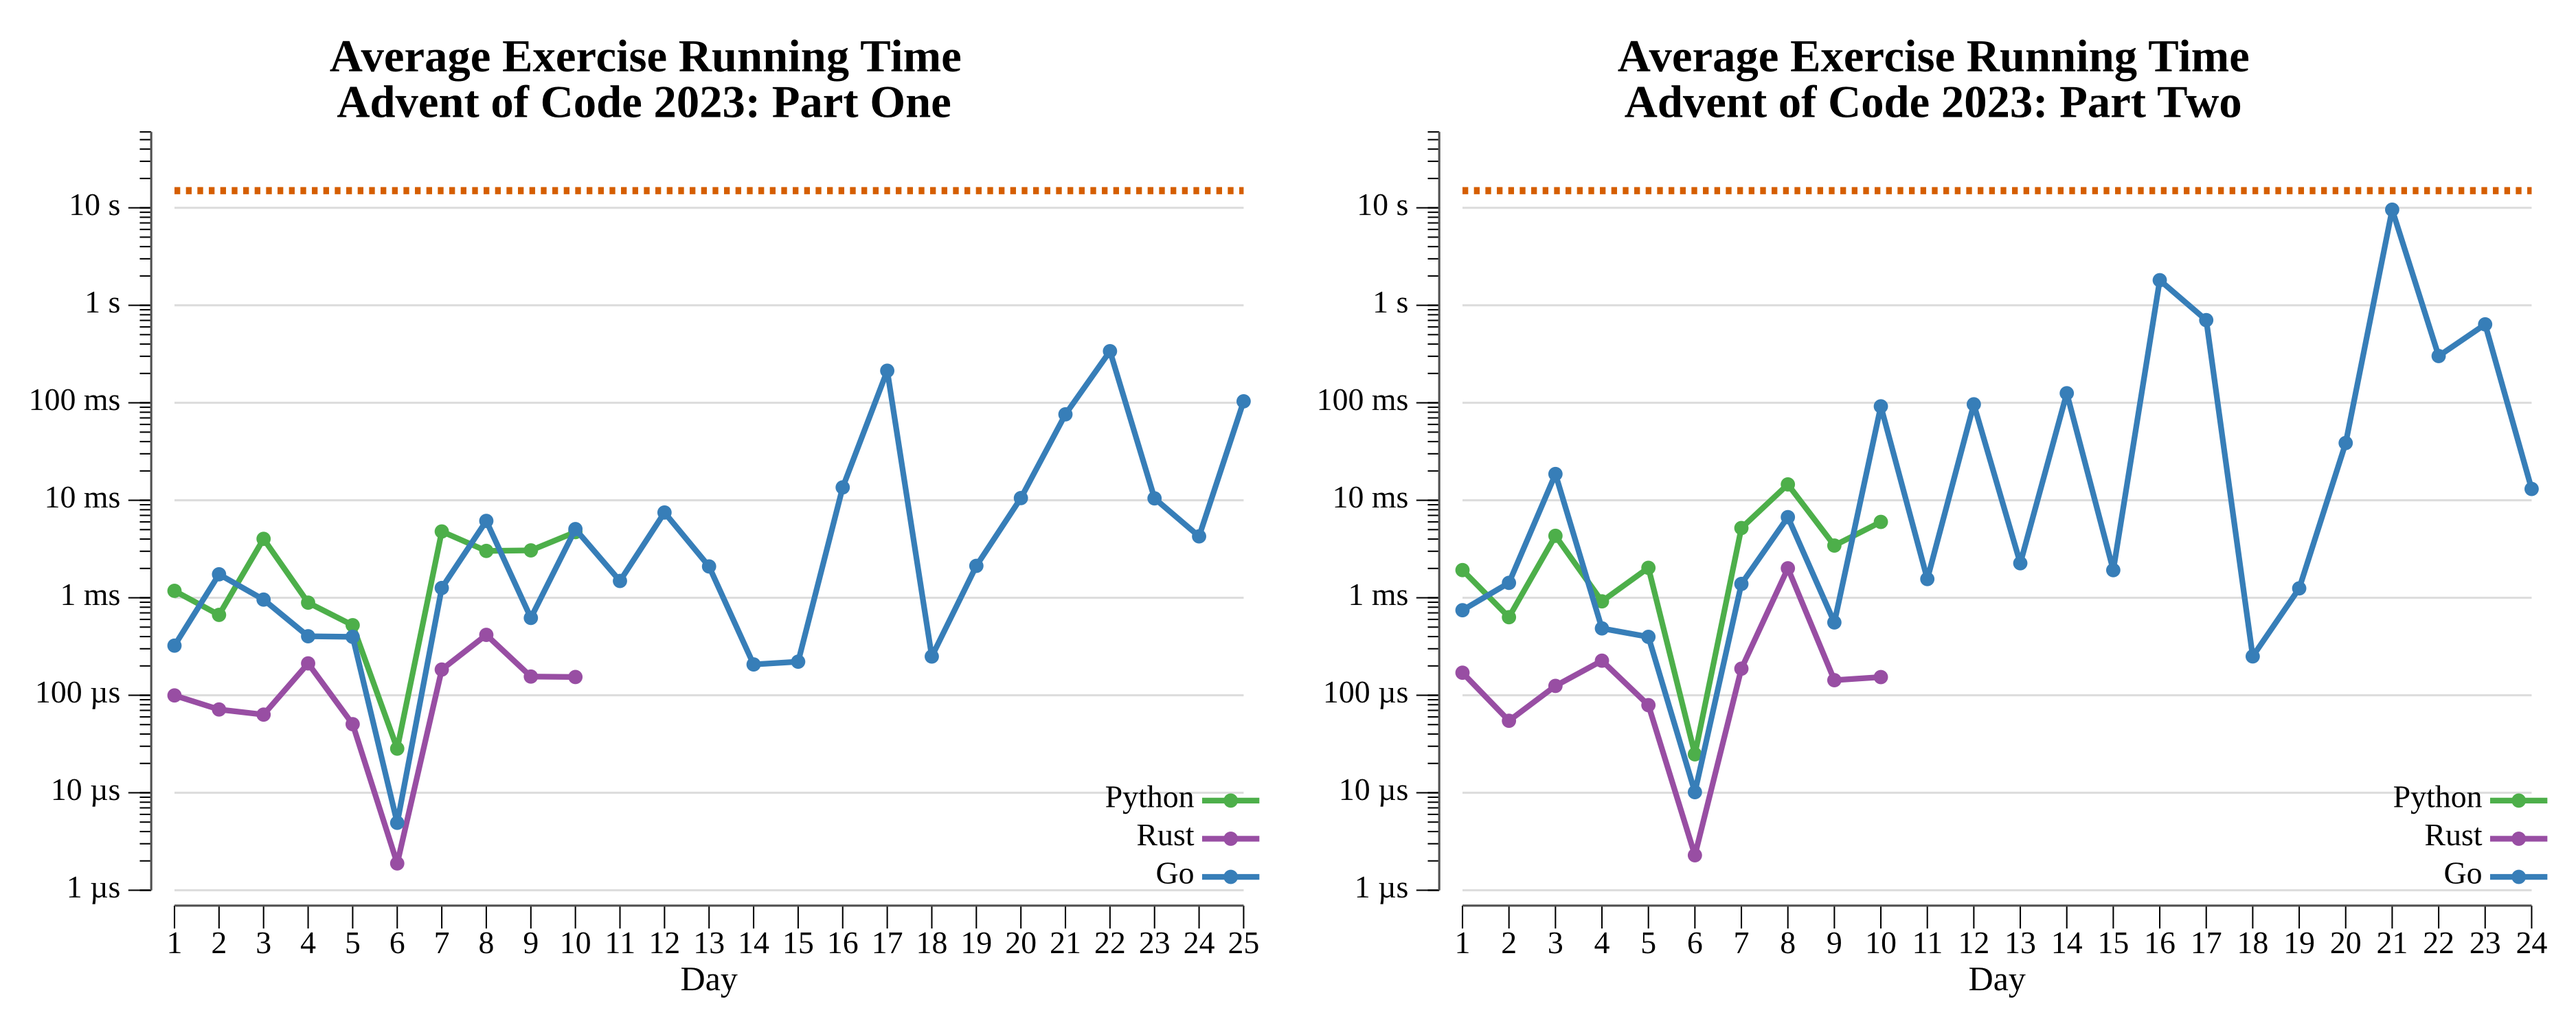
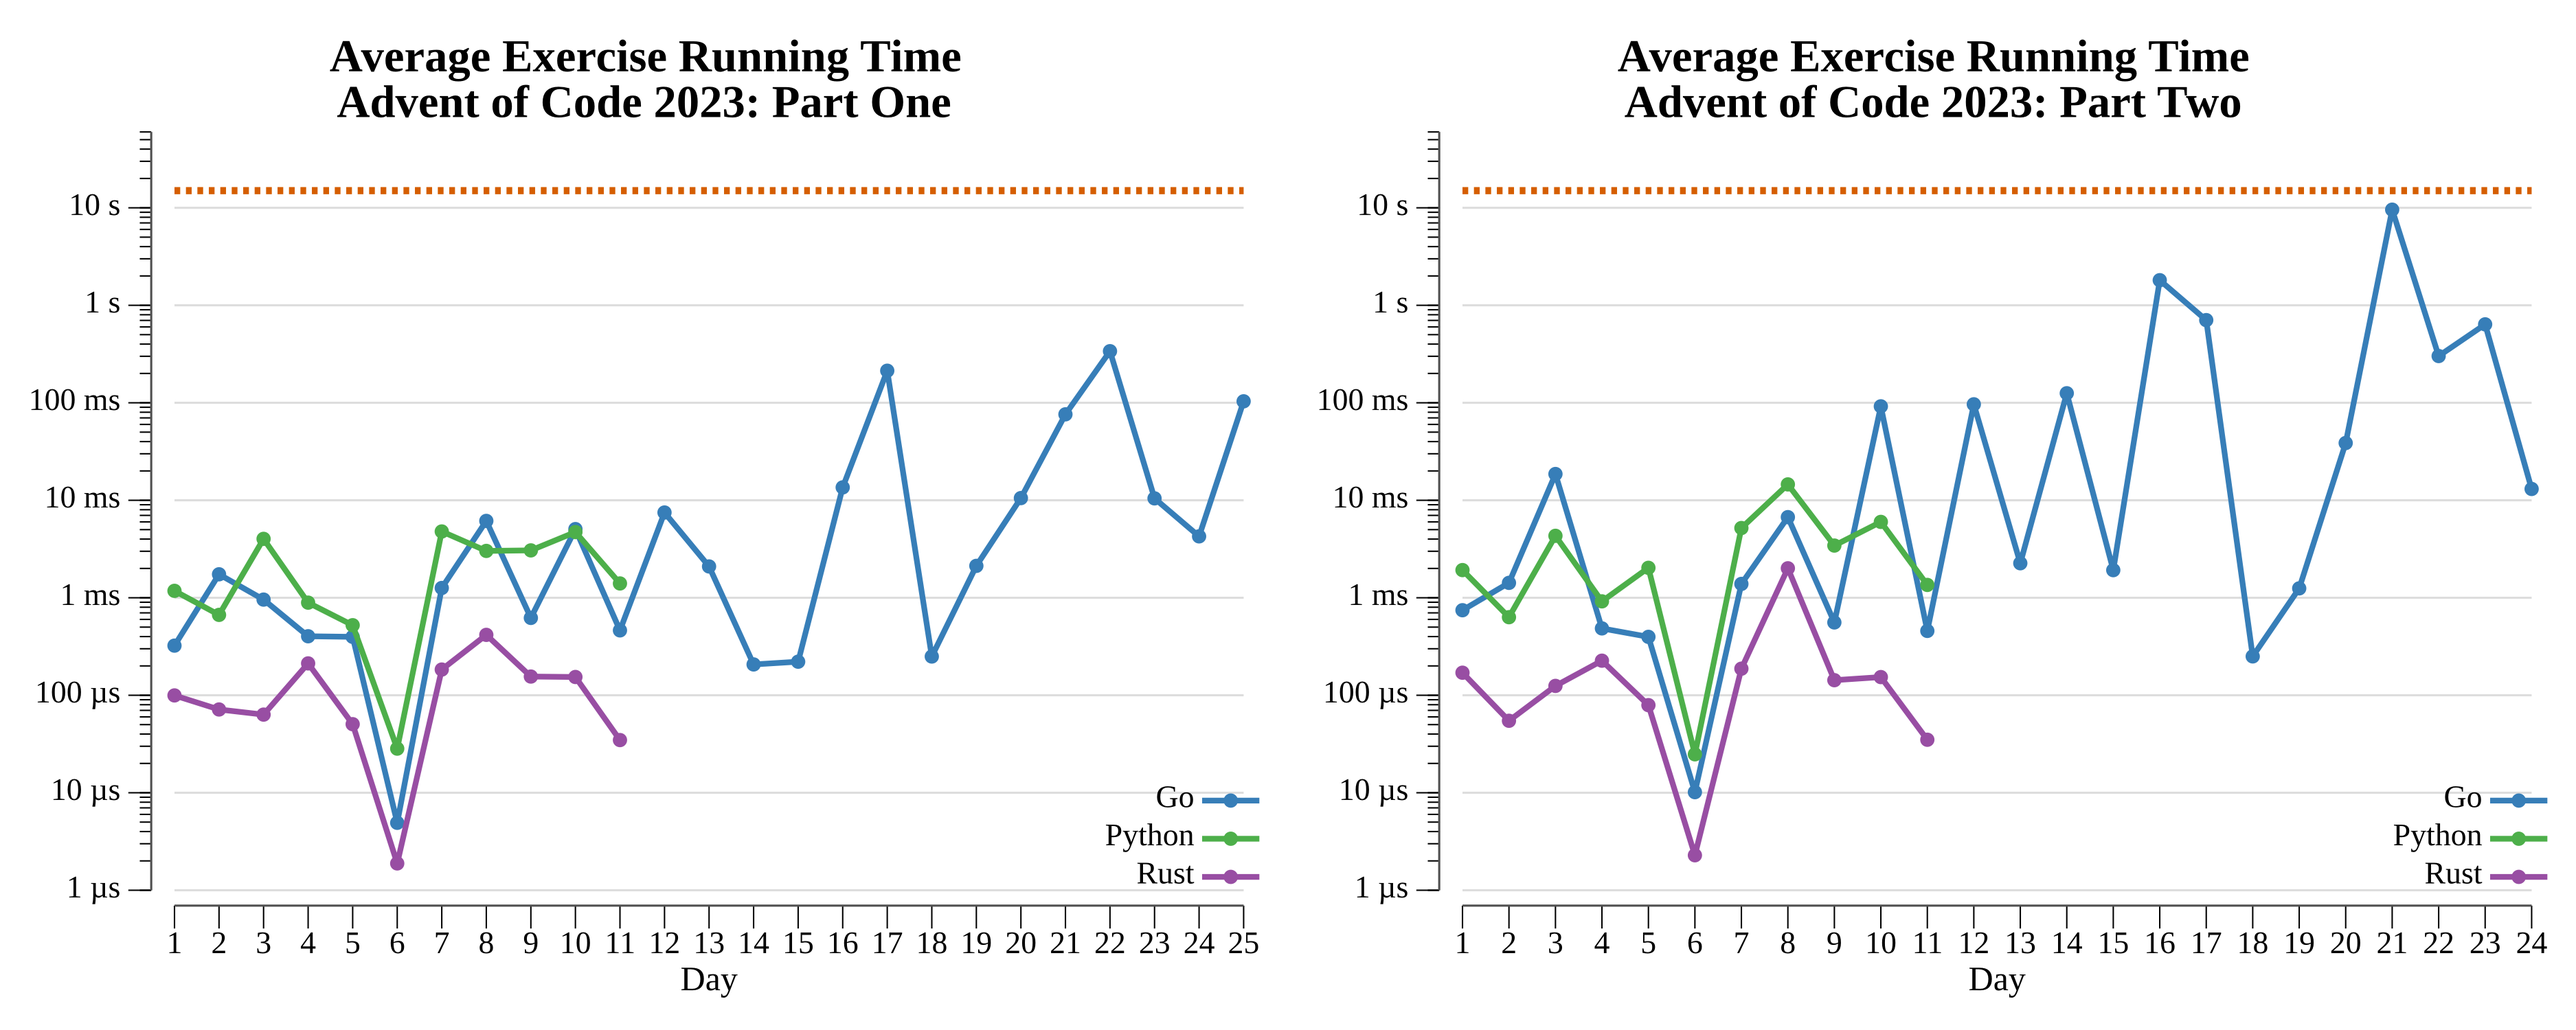
add rust/py to 2023 day 11

diff --git a/exercises/2023/11-cosmicExpansion/rs/src/solution.rs b/exercises/2023/11-cosmicExpansion/rs/src/solution.rs
@@ -1,0 +1,66 @@
+// Solution for Advent of Code 2023 day 11.
+//
+// Empty rows and columns each expand to `factor` tracks. The total pairwise
+// Manhattan distance separates into independent row and column sums, and along
+// one axis the sorted-order identity sum_{i<j}(x_j - x_i) = sum_i x_i*(2i-n+1)
+// turns each axis into a single linear pass — so the million-fold expansion in
+// part two costs the same as part one.
+
+/// Pairwise distance sum along one axis after expanding empty tracks.
+fn axis_sum(coords: &[usize], size: usize, factor: u64) -> u64 {
+    let occupied: Vec<bool> = {
+        let mut v = vec![false; size];
+        for &c in coords {
+            v[c] = true;
+        }
+        v
+    };
+
+    // Cumulative expanded position of each track.
+    let mut expanded = vec![0u64; size];
+    let mut pos = 0u64;
+    for x in 0..size {
+        expanded[x] = pos;
+        pos += if occupied[x] { 1 } else { factor };
+    }
+
+    let mut positions: Vec<u64> = coords.iter().map(|&c| expanded[c]).collect();
+    positions.sort_unstable();
+
+    // Accumulate in signed arithmetic: the per-term weight (2i - n + 1) is
+    // negative for the lower half, so a u64 multiply would underflow.
+    let n = positions.len() as i64;
+    let sum: i64 = positions
+        .iter()
+        .enumerate()
+        .map(|(i, &p)| p as i64 * (2 * i as i64 - n + 1))
+        .sum();
+    sum as u64
+}
+
+fn total(input: &str, factor: u64) -> u64 {
+    let grid: Vec<&[u8]> = input.lines().map(str::as_bytes).collect();
+    let height = grid.len();
+    let width = grid[0].len();
+
+    let mut rows = Vec::new();
+    let mut cols = Vec::new();
+    for (r, line) in grid.iter().enumerate() {
+        for (c, &ch) in line.iter().enumerate() {
+            if ch == b'#' {
+                rows.push(r);
+                cols.push(c);
+            }
+        }
+    }
+
+    axis_sum(&rows, height, factor) + axis_sum(&cols, width, factor)
+}
+
+pub fn part_one(input: &str) -> String {
+    total(input, 2).to_string()
+}
+
+pub fn part_two(input: &str) -> String {
+    total(input, 1_000_000).to_string()
+}

diff --git a/exercises/2023/11-cosmicExpansion/py/__init__.py b/exercises/2023/11-cosmicExpansion/py/__init__.py
@@ -1,0 +1,37 @@
+from typing import *
+from aocpy import BaseExercise
+
+
+def _axis_sum(coords: list[int], size: int, factor: int) -> int:
+    # Sum of pairwise distances along one axis, expanding every empty track by
+    # `factor`. Remapping each coordinate to its expanded position first, the
+    # sorted-order identity sum_{i<j}(x_j - x_i) = sum_i x_i*(2i - n + 1) makes
+    # this linear rather than quadratic.
+    occupied = set(coords)
+    expanded, offset = [], 0
+    for x in range(size):
+        if x not in occupied:
+            offset += factor - 1
+        expanded.append(x + offset)
+
+    positions = sorted(expanded[c] for c in coords)
+    n = len(positions)
+    return sum(p * (2 * i - n + 1) for i, p in enumerate(positions))
+
+
+def _total(instr: str, factor: int) -> int:
+    grid = instr.splitlines()
+    rows = [r for r, line in enumerate(grid) for ch in line if ch == "#"]
+    cols = [c for line in grid for c, ch in enumerate(line) if ch == "#"]
+    return _axis_sum(rows, len(grid), factor) + _axis_sum(cols, len(grid[0]), factor)
+
+
+# Exercise for Advent of Code 2023 day 11.
+class Exercise(BaseExercise):
+    @staticmethod
+    def one(instr: str) -> int:
+        return _total(instr, 2)
+
+    @staticmethod
+    def two(instr: str) -> int:
+        return _total(instr, 1_000_000)

diff --git a/exercises/2023/11-cosmicExpansion/README.md b/exercises/2023/11-cosmicExpansion/README.md
@@ -33,8 +33,37 @@ Solving...
 
 ## Python
 
+The distance sum splits into independent row and column axes; along each, empty
+tracks are expanded by remapping coordinates, and the sorted-order identity
+`sum_i x_i*(2i - n + 1)` yields the pairwise sum in one linear pass. Only the
+expansion factor (2 vs. 1,000,000) differs between parts.
+
 ```text
-< section intentionally left blank >
+──────────────────────────
+   ADVENT OF CODE 2023
+ Day 11: Cosmic Expansion
+──────────────────────────
+
+Solving (Python)…
+1.0:  PASS             1.074ms
+2.0:  PASS             1.286ms
+```
+
+## Rust
+
+The same per-axis linear sum, accumulated in signed arithmetic so the negative
+lower-half weights don't underflow. Galaxy rows and columns are gathered in one
+grid pass; both parts share the code with only the factor changing.
+
+```text
+──────────────────────────
+   ADVENT OF CODE 2023
+ Day 11: Cosmic Expansion
+──────────────────────────
+
+Solving (Rust)…
+1.0:  PASS           128.271µs
+2.0:  PASS            25.319µs
 ```
 
 ## 2023 Run Times

diff --git a/exercises/2023/README.md b/exercises/2023/README.md
@@ -16,7 +16,7 @@
 | [Day 8: Haunted Wasteland][rm8]               |  ⭐⭐   | [Go][go8] · [Rust][rs8] · [Python][py8] |
 | [Day 9: Mirage Maintenance][rm9]              |  ⭐⭐   | [Go][go9] · [Rust][rs9] · [Python][py9] |
 | [Day 10: Pipe Maze][rm10]                     |  ⭐⭐   | [Go][go10] · [Rust][rs10] · [Python][py10] |
-| [Day 11: Cosmic Expansion][rm11]              |  ⭐⭐   | [Go][go11] |
+| [Day 11: Cosmic Expansion][rm11]              |  ⭐⭐   | [Go][go11] · [Rust][rs11] · [Python][py11] |
 | [Day 12: Hot Springs][rm12]                   |  ⭐⭐   | [Go][go12] |
 | [Day 13: Point of Incidence][rm13]            |  ⭐⭐   | [Go][go13] |
 | [Day 14: Parabolic Reflector Dish][rm14]      |  ⭐⭐   | [Go][go14] |
@@ -112,6 +112,8 @@ Day       Time   Rank  Score       Time   Rank  Score
 [py10]: 10-pipeMaze/py
 [rm11]: 11-cosmicExpansion/README.md
 [go11]: 11-cosmicExpansion/go
+[rs11]: 11-cosmicExpansion/rs
+[py11]: 11-cosmicExpansion/py
 [rm12]: 12-hotSprings/README.md
 [go12]: 12-hotSprings/go
 [rm13]: 13-pointOfIncidence/README.md
